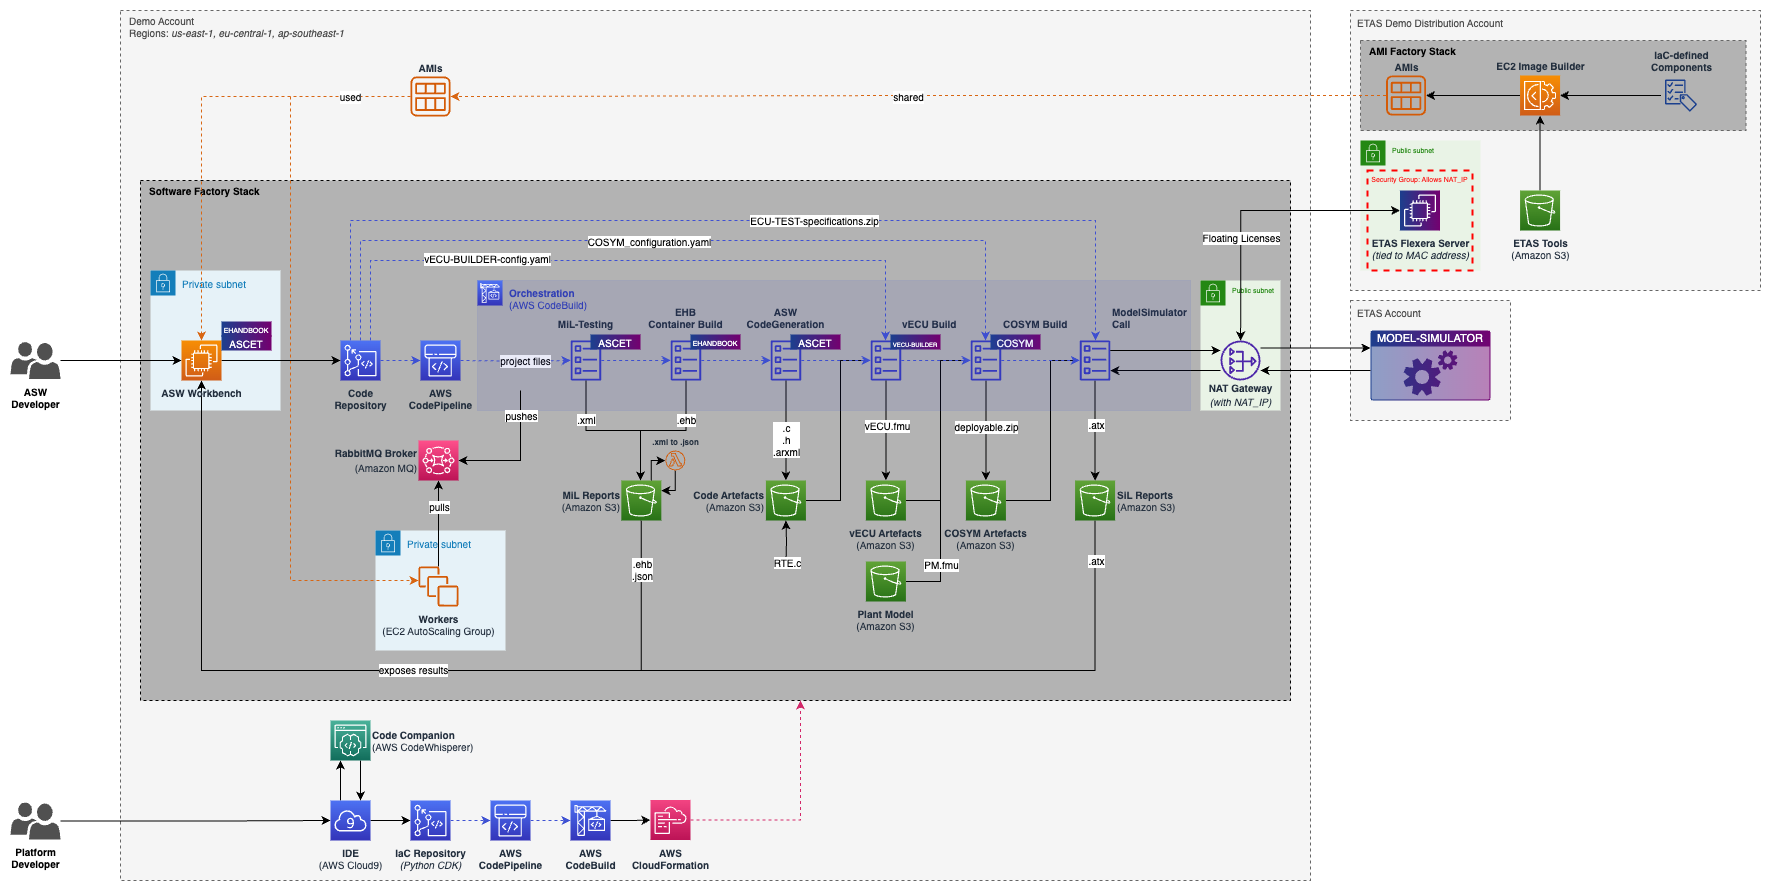
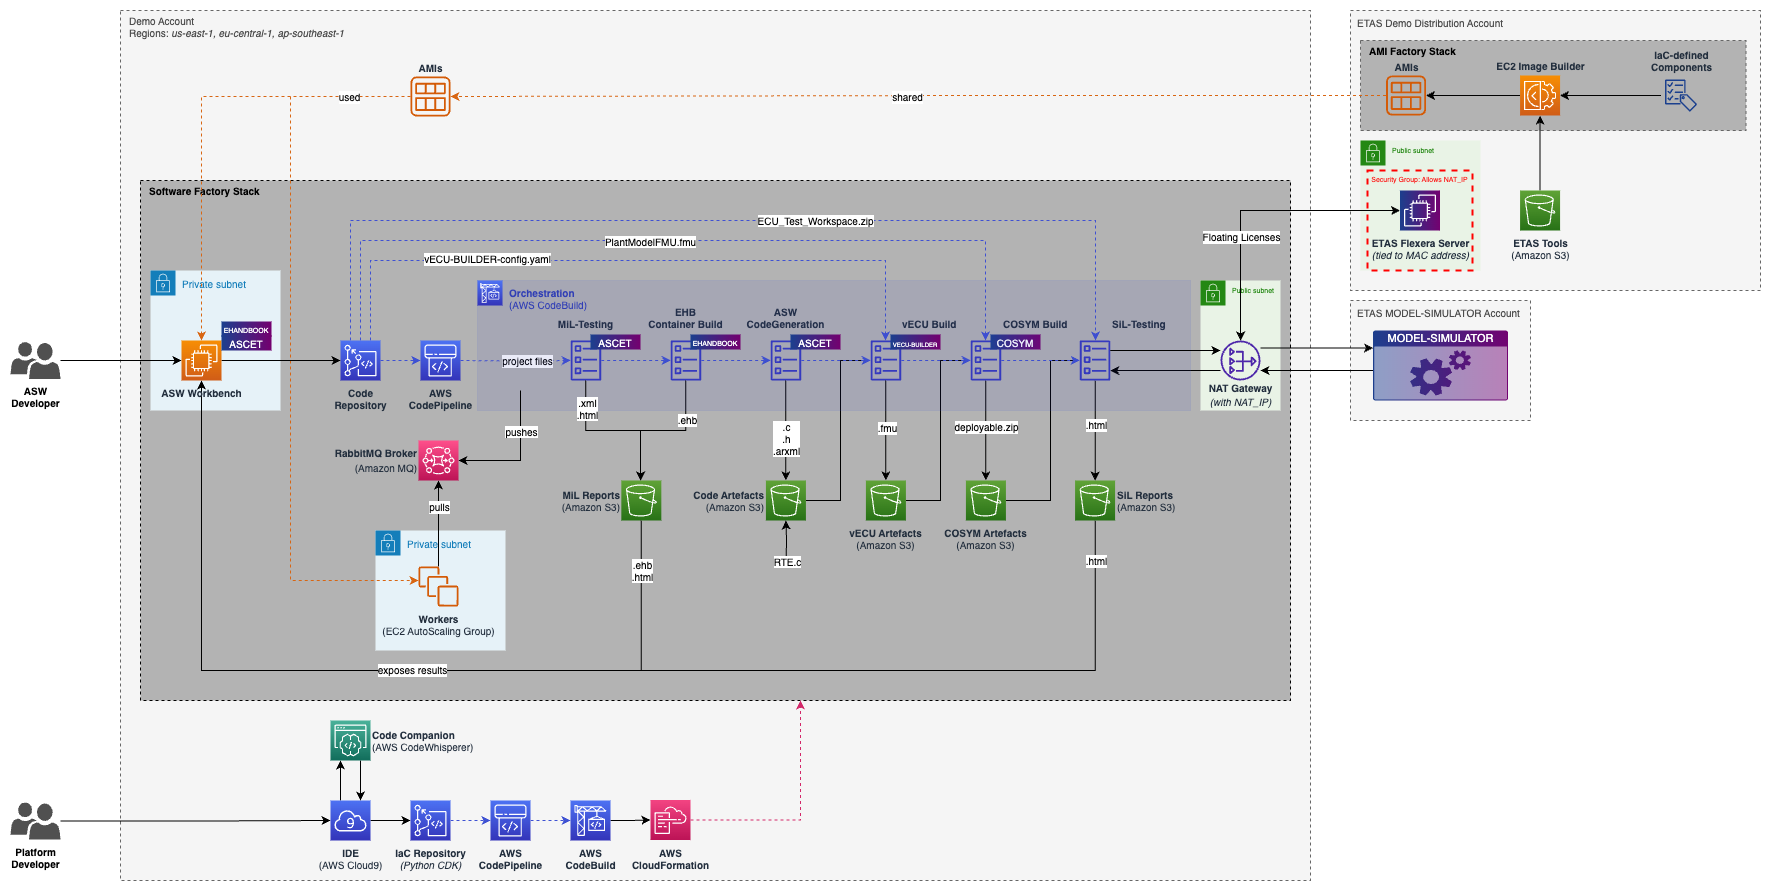
updated the 2 README

diff --git a/blueprints/etas-autosar-cp/README.md b/blueprints/etas-autosar-cp/README.md
@@ -1,14 +1,18 @@
 # Model-based design workflow for AUTOSAR Classic Platform
 
-[TBD: ADD DESCRIPTION]
+This demo showcases how to design and test on AWS an in-vehicle application based on AUTOSAR classic platform using a model-based approach. A developer connects to his Workbench, specifically crafted for the project, via a web browser-based client with NICE DCV protocol. The workbench comes will all the tools he needs to design the application, such as ETAS ASCET-DEVELOPER and EHANDBOOK-NAVIGATOR. Before committing to the project repository, he can locally execute the application at model level and verify that all the developed tests do pass. At every code commit, the project pipeline is trigged and a full suite of model-in-the-loop (MiL) tests is executed at scale. If MiL stage passes successfully, C code is generated. This code and already-available Basic Software (BSW) are fed into ETAS vECU-BUILDER which produces a model of the ECU in FMU format (vECU model). At last, the vECU model is bundled with the Plant Model FMU model using ETAS COSYM. Software-in-the-loop (SiL) tests are then executed at scale with ETAS MODEL SIMULATOR, with test specifications designed with TraceTronic ECU-TEST. MiL-tests and SiL-tests reports are exposed to the workbench, where the developer can analyse them, thus closing the loop. The whole architecture can be configured and deployed via infrastructure-as-code (IaC), based on CDK and Python, and empowers anyone with an AWS account to test this workflow.
 
-[LINK to ETAS CDW to be included in the description](https://www.etas.com/en/products/continuous-development-workbench.php)
+This demo aligns AWS' efforts in revolutionizingng automotive software development with ETAS' [Continuous Development Workbench](https://www.etas.com/en/products/continuous-development-workbench.php).
+
+## Architecture
 
 ![Architecture](docs/architecture.png)
 
 ## Deploy
 
-If you got here from the [main page](../../README.md), access to the newly created [Cloud9 instance](https://console.aws.amazon.com/cloud9/home#), open a terminal, issue the following commands:
+If you got here from the [main page](../../README.md), access the newly created [Cloud9 instance](https://console.aws.amazon.com/cloud9/home#). Otherwise, please refer to the main [Getting Started](../../README.md#getting-started) section, and come back here. It will only take a few minutes.
+
+Now open a terminal, and issue the following commands:
 
 ```sh
 cd ~/environment/asdw
@@ -19,10 +23,9 @@ The `deploy` script will take about **1 minute** to complete and will print the 
 
 ![First deploy](./docs/output1.png)
 
+With the above information, request access to the assets and licenses filling [**this form**](https://www.etas.com/en/portfolio/registration-continuous-development-workbench.php). ETAS will provide you access to the required tools free of charge.
 
-With the above information, request the access to the assets and licenses filling [**this form**](https://www.etas.com/en/portfolio/registration-continuous-development-workbench.php).
-
-When you have been granted access from ETAS, you will need to rerun the `deploy` script
+When you have been granted access from ETAS, you will need to rerun the `deploy` script:
 
 ```sh
 cd ~/environment/asdw
@@ -30,15 +33,35 @@ git pull
 ./scripts/deploy etas-autosar-cp
 ```
 
-This second `deploy` run will take about **18 minutes**. Afterward, please allow another **10 minutes** before accessing the workbench, clicking the link printed by `deploy`
+This second `deploy` run will take about **18 minutes**. Afterwards, please allow another **10 minutes** before accessing the workbench, then click the link printed by `deploy`:
 
 ![Second deploy](./docs/output2.png)
 
-with the following credentials
+and connect using with the following credentials:
+
+Username: `Administrator`
+
+Password: `Reinvent2023@`
 
 ![Access workbench](./docs/credentials.png)
 
-Follow the video instructions here [TBD: ADD LINK] to experiance the blueprint.
+You're good to go!
+
+## Video Tutorial
+
+You can follow the video instructions here [TBD: ADD LINK] to experience the blueprint.
+
+## Tools Details
+
+- [ETAS ASCET-DEVELOPER](https://www.etas.com/en/products/ascet-developer.php) is a professional development tool that can be used to model functions and generate C code based on graphic models and text-based programming notations. ETAS ASCET-DEVELOPER allows you to efficiently develop high-performance, easy-to-maintain, secure application software for embedded systems.
+
+- [ETAS EHANDBOOK](https://www.etas.com/en/products/ehandbook.php) is an award-winning solution that combines multiple document files from different development sources into an easy-to-use, interactive format. ETAS EHANDBOOK saves you valuable time by understanding complex ECU applications faster.
+
+- [ETAS VECU-BUILDER](https://www.etas.com/en/products/vecu-builder.php) is a tool for the generation of virtual ECUs as FMU for the verification and validation of automotive microcontroller software in Software-in-Loop (SIL) setups. ETAS VECU-Builder allows you to generate stand-alone, executable virtual ECUs for comprehensive cooperation with OEMs and suppliers.
+
+- [ETAS COSYM](https://www.etas.com/en/products/cosym-co-simulation-platform.php) is a powerful simulation and integration platform for testing and validating software in all phases of software development. ETAS COSYM helps to reduce costs and time by moving HiL tests forward to virtual simulation (MiL/SiL).
+
+- [ETAS MODEL-SIMULATOR](https://www.etas.com/en/applications/software-in-the-loop-testing-in-the-cloud.php) is a platform for parallel simulation, test execution and driving cycle generation. Allowing you to significantly increase the simulation speed, receive fast feedback and detect errors at an early stage – all while maintaining data security in according to ISO 27001.
 
 ## Cleanup
 

diff --git a/README.md b/README.md
@@ -1,15 +1,16 @@
 # Welcome to the Automotive Software Developer Workbench
 
 AWS is revolutionizing the way automotive software is being developed, providing automakers with the infrastructure, tools, and partner ecosystem needed to enable software-first development organizations.  
-The Automotive Software Developer Workbench aim to provide a holistic overview of how the cloud can help to scale and accelerate automotive software development, showcasing a workbench, a software and an AMI factory.
-This repository contains the instructions and code that allows you to deploy a full end-to-end example that will let you experiance what a developer experiance for various automotive software stack would look like.
-While we currently support only a Model-based design workflow for AUTOSAR Classic Platform based on ETAS toolchain but we plan additional examples in the coming future.
+The Automotive Software Developer Workbench aims to provide an holistic overview of how the cloud can help to scale and accelerate automotive software development, showcasing a workbench, a software factory and an AMI factory.
+This repository contains the instructions and code that allow you to deploy full end-to-end examples that will give you a sense of what a developer experiences working with various automotive software stacks.
+
+While we currently support only a Model-based design workflow for AUTOSAR Classic Platform based on ETAS toolchain, we plan to implement additional examples in the future.
 
 ![Architecture](./docs/architecture.png)
 
 ## Getting started
 
-Deploy Cloud 9 in one of the supported regions
+Deploy a Cloud9 instance in one of the supported regions:
 
 [![Launch](https://samdengler.github.io/cloudformation-launch-stack-button-svg/images/us-east-1.svg)](https://us-east-1.console.aws.amazon.com/cloudformation/home?region=us-east-1#/stacks/create/review?stackName=asdw-cloud9&templateURL=https://automotive-software-developer-workbench-us-east-1.s3.us-east-1.amazonaws.com/cloud9-env.template.json)
 
@@ -23,7 +24,7 @@ Acknowledge the creation of the stack and press the button **Create stack** on t
 
 The [AWS Cloud9](https://aws.amazon.com/pm/cloud9) IDE instance will take about **3 minutes** to be created.
 
-Choose among the blueprints below and follow the instruction shown in the associated section
+Choose among the following blueprints below and follow the instructions of the associated section to experience a use-case:
 
 - [Model-based design workflow for AUTOSAR Classic Platform](blueprints/etas-autosar-cp/README.md)
 
